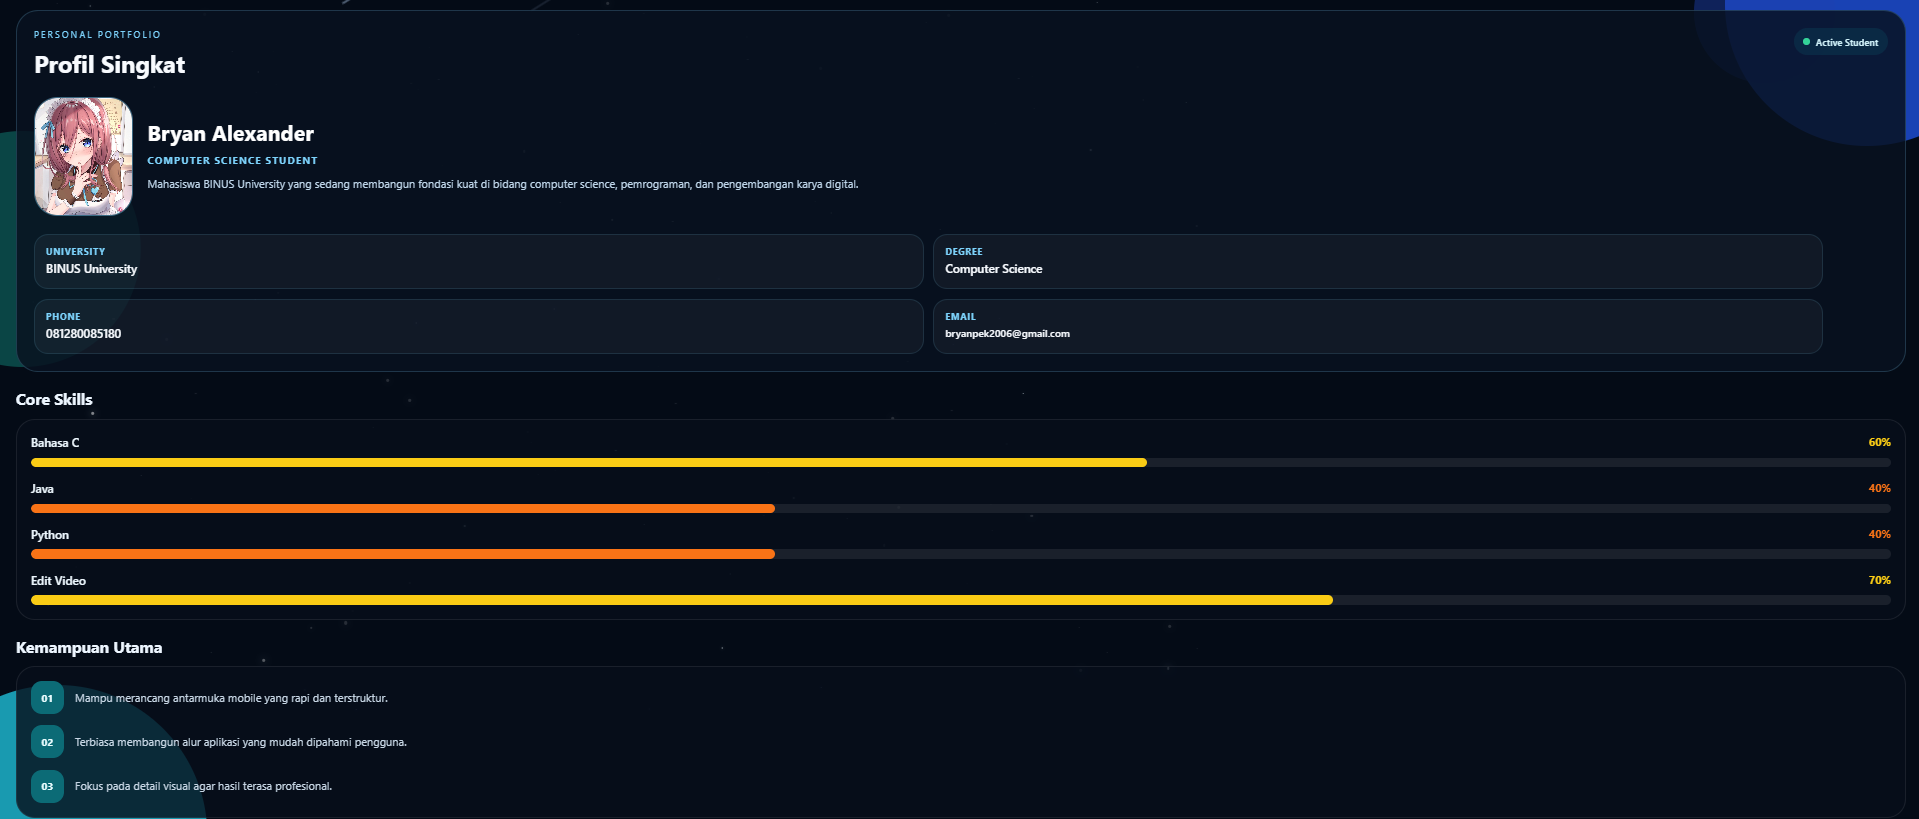
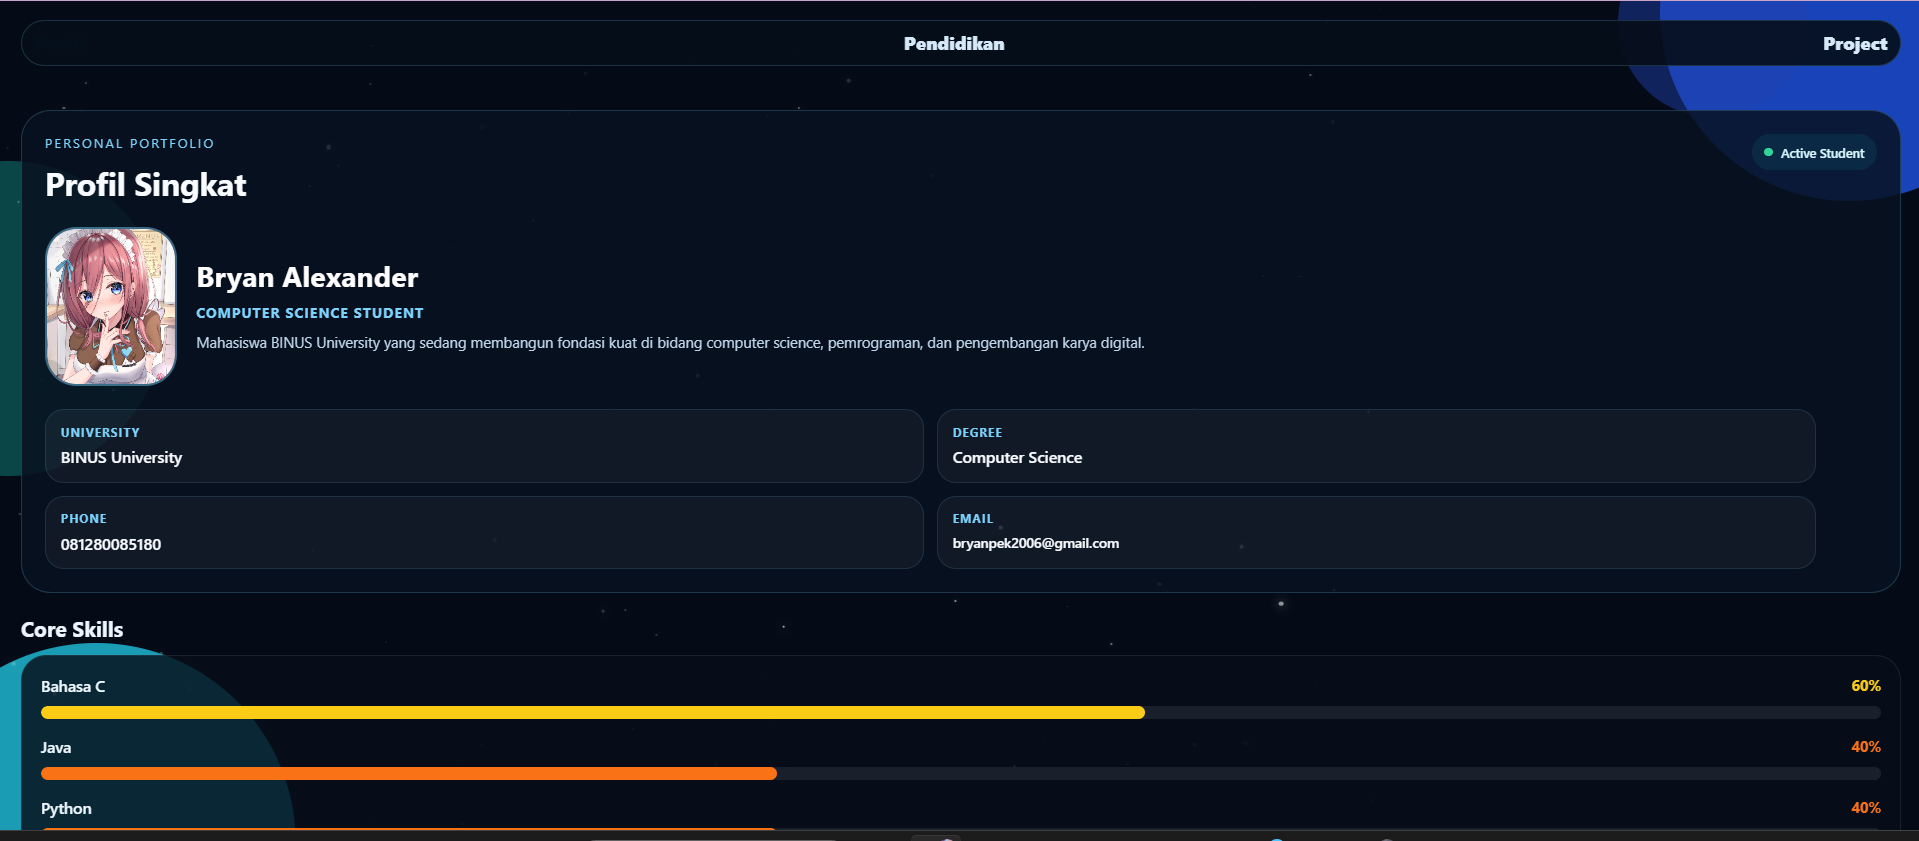
Add Toggle Bar

diff --git a/app/education.tsx b/app/education.tsx
@@ -1,5 +1,3 @@
-import { Feather } from "@expo/vector-icons";
-import { Link, router } from "expo-router";
 import { useRef, useState } from "react";
 import {
   Animated,
@@ -11,6 +9,7 @@ import {
   View,
 } from "react-native";
 import StarBackground from "./starBackground";
+import TopTabs from "./topTabs";
 
 const educationHistory = [
   {
@@ -53,13 +52,7 @@ export default function EducationScreen() {
           { useNativeDriver: true }
         )}
       >
-        <Pressable
-          onPress={() => router.back()}
-          style={({ pressed }) => [styles.backButton, pressed && styles.backPressed]}
-        >
-          <Feather name="arrow-left" size={18} color="#d9f5ff" />
-          <Text style={styles.backText}>Kembali ke Profil</Text>
-        </Pressable>
+        <TopTabs />
 
         <View style={styles.headerCard}>
           <Text style={styles.eyebrow}>EDUCATION JOURNEY</Text>
@@ -104,17 +97,6 @@ export default function EducationScreen() {
           })}
         </View>
 
-        <Link href="/projects" asChild>
-          <Pressable
-            style={({ pressed }) => [
-              styles.primaryButton,
-              pressed && styles.primaryButtonPressed,
-            ]}
-          >
-            <Text style={styles.primaryButtonText}>Lanjut ke Riwayat Project</Text>
-            <Feather name="arrow-right" size={18} color="#03101c" />
-          </Pressable>
-        </Link>
       </Animated.ScrollView>
     </SafeAreaView>
   );
@@ -130,26 +112,6 @@ const styles = StyleSheet.create({
     paddingTop: 20,
     paddingBottom: 36,
     gap: 18,
-  },
-  backButton: {
-    flexDirection: "row",
-    alignItems: "center",
-    gap: 10,
-    alignSelf: "flex-start",
-    backgroundColor: "rgba(255, 255, 255, 0.08)",
-    paddingVertical: 10,
-    paddingHorizontal: 14,
-    borderRadius: 999,
-    borderWidth: 1,
-    borderColor: "rgba(255, 255, 255, 0.08)",
-  },
-  backPressed: {
-    opacity: 0.88,
-  },
-  backText: {
-    color: "#d9f5ff",
-    fontSize: 13,
-    fontWeight: "600",
   },
   headerCard: {
     backgroundColor: "rgba(7, 17, 31, 0.84)",
@@ -245,31 +207,5 @@ const styles = StyleSheet.create({
     fontSize: 14,
     fontWeight: "600",
     lineHeight: 21,
-  },
-  primaryButton: {
-    marginTop: 4,
-    backgroundColor: "#7dd3fc",
-    borderWidth: 1,
-    borderColor: "rgba(255, 255, 255, 0.28)",
-    borderRadius: 20,
-    paddingVertical: 18,
-    paddingHorizontal: 20,
-    flexDirection: "row",
-    justifyContent: "space-between",
-    alignItems: "center",
-    shadowColor: "#7dd3fc",
-    shadowOffset: { width: 0, height: 10 },
-    shadowOpacity: 0.35,
-    shadowRadius: 18,
-    elevation: 6,
-  },
-  primaryButtonPressed: {
-    opacity: 0.96,
-    transform: [{ scale: 0.99 }],
-  },
-  primaryButtonText: {
-    color: "#03101c",
-    fontSize: 15,
-    fontWeight: "800",
   },
 });

diff --git a/app/topTabs.tsx b/app/topTabs.tsx
@@ -1,0 +1,87 @@
+import { Link, usePathname } from "expo-router";
+import { Pressable, StyleSheet, Text, View } from "react-native";
+
+const tabs = [
+  { href: "/", label: "Profil" },
+  { href: "/education", label: "Pendidikan" },
+  { href: "/projects", label: "Project" },
+];
+
+export default function TopTabs() {
+  const pathname = usePathname();
+
+  return (
+    <View style={styles.wrapper}>
+      <View style={styles.tabBar}>
+        {tabs.map((tab) => {
+          const isActive = pathname === tab.href;
+
+          return (
+            <Link key={tab.href} href={tab.href} asChild>
+              <Pressable
+                style={({ pressed }) => [
+                  styles.tab,
+                  isActive && styles.tabActive,
+                  pressed && styles.tabPressed,
+                ]}
+              >
+                <Text style={[styles.tabText, isActive && styles.tabTextActive]}>
+                  {tab.label}
+                </Text>
+              </Pressable>
+            </Link>
+          );
+        })}
+      </View>
+    </View>
+  );
+}
+
+const styles = StyleSheet.create({
+  wrapper: {
+    marginBottom: 22,
+  },
+  tabBar: {
+    flexDirection: "row",
+    justifyContent: "space-between",
+    backgroundColor: "rgba(5, 13, 24, 0.9)",
+    borderRadius: 24,
+    paddingVertical: 10,
+    paddingHorizontal: 12,
+    borderWidth: 1,
+    borderColor: "rgba(125, 211, 252, 0.18)",
+  },
+  tab: {
+    width: "31%",
+    minHeight: 58,
+    borderRadius: 18,
+    justifyContent: "center",
+    alignItems: "center",
+    paddingHorizontal: 12,
+    backgroundColor: "rgba(255, 255, 255, 0.03)",
+    borderWidth: 1,
+    borderColor: "rgba(255, 255, 255, 0.06)",
+  },
+  tabActive: {
+    backgroundColor: "#7dd3fc",
+    borderColor: "rgba(255, 255, 255, 0.3)",
+    shadowColor: "#7dd3fc",
+    shadowOffset: { width: 0, height: 8 },
+    shadowOpacity: 0.28,
+    shadowRadius: 16,
+    elevation: 6,
+  },
+  tabPressed: {
+    opacity: 0.94,
+    transform: [{ scale: 0.985 }],
+  },
+  tabText: {
+    color: "#d6e9f8",
+    fontSize: 17,
+    fontWeight: "800",
+    letterSpacing: 0.2,
+  },
+  tabTextActive: {
+    color: "#03101c",
+  },
+});

diff --git a/app/index.tsx b/app/index.tsx
@@ -1,10 +1,7 @@
-import { Feather } from "@expo/vector-icons";
 import { Image } from "expo-image";
-import { Link } from "expo-router";
 import { useRef } from "react";
 import {
   Animated,
-  Pressable,
   SafeAreaView,
   StatusBar,
   StyleSheet,
@@ -12,6 +9,7 @@ import {
   View,
 } from "react-native";
 import StarBackground from "./starBackground";
+import TopTabs from "./topTabs";
 
 const skillLevels = [
   { name: "Bahasa C", value: 60 },
@@ -50,6 +48,8 @@ export default function HomeScreen() {
           { useNativeDriver: true }
         )}
       >
+        <TopTabs />
+
         <View style={styles.heroCard}>
           <View style={styles.heroHeader}>
             <View style={styles.heroHeadingWrap}>
@@ -145,19 +145,6 @@ export default function HomeScreen() {
           </View>
         </View>
 
-        <Link href="/education" asChild>
-          <Pressable
-            style={({ pressed }) => [
-              styles.primaryButton,
-              pressed && styles.primaryButtonPressed,
-            ]}
-          >
-            <Text style={styles.primaryButtonText}>
-              Lihat Riwayat Pendidikan
-            </Text>
-            <Feather name="arrow-right" size={18} color="#03101c" />
-          </Pressable>
-        </Link>
       </Animated.ScrollView>
     </SafeAreaView>
   );
@@ -365,32 +352,5 @@ const styles = StyleSheet.create({
     color: "#c8d7e5",
     fontSize: 14,
     lineHeight: 21,
-  },
-  primaryButton: {
-    marginTop: 8,
-    backgroundColor: "#7dd3fc",
-    borderWidth: 1,
-    borderColor: "rgba(255, 255, 255, 0.28)",
-    borderRadius: 20,
-    paddingVertical: 18,
-    paddingHorizontal: 20,
-    flexDirection: "row",
-    justifyContent: "space-between",
-    alignItems: "center",
-    shadowColor: "#7dd3fc",
-    shadowOffset: { width: 0, height: 10 },
-    shadowOpacity: 0.35,
-    shadowRadius: 18,
-    elevation: 6,
-  },
-  primaryButtonPressed: {
-    opacity: 0.96,
-    transform: [{ scale: 0.99 }],
-    shadowOpacity: 0.22,
-  },
-  primaryButtonText: {
-    color: "#03101c",
-    fontSize: 15,
-    fontWeight: "800",
   },
 });

diff --git a/app/projects.tsx b/app/projects.tsx
@@ -1,6 +1,5 @@
 import { Feather } from "@expo/vector-icons";
 import { Image } from "expo-image";
-import { router } from "expo-router";
 import { useRef, useState } from "react";
 import {
   Animated,
@@ -14,6 +13,7 @@ import {
   useWindowDimensions,
 } from "react-native";
 import StarBackground from "./starBackground";
+import TopTabs from "./topTabs";
 
 const projects = [
   {
@@ -73,16 +73,7 @@ export default function ProjectsScreen() {
           { useNativeDriver: true }
         )}
       >
-        <Pressable
-          onPress={() => router.back()}
-          style={({ pressed }) => [
-            styles.backButton,
-            pressed && styles.backPressed,
-          ]}
-        >
-          <Feather name="arrow-left" size={18} color="#d9f5ff" />
-          <Text style={styles.backText}>Kembali ke Pendidikan</Text>
-        </Pressable>
+        <TopTabs />
 
         <View style={styles.headerCard}>
           <Text style={styles.eyebrow}>PROJECT ARCHIVE</Text>
@@ -182,26 +173,6 @@ const styles = StyleSheet.create({
     paddingTop: 20,
     paddingBottom: 36,
     gap: 18,
-  },
-  backButton: {
-    flexDirection: "row",
-    alignItems: "center",
-    gap: 10,
-    alignSelf: "flex-start",
-    backgroundColor: "rgba(255, 255, 255, 0.08)",
-    paddingVertical: 10,
-    paddingHorizontal: 14,
-    borderRadius: 999,
-    borderWidth: 1,
-    borderColor: "rgba(255, 255, 255, 0.08)",
-  },
-  backPressed: {
-    opacity: 0.88,
-  },
-  backText: {
-    color: "#d9f5ff",
-    fontSize: 13,
-    fontWeight: "600",
   },
   headerCard: {
     backgroundColor: "rgba(7, 17, 31, 0.84)",
